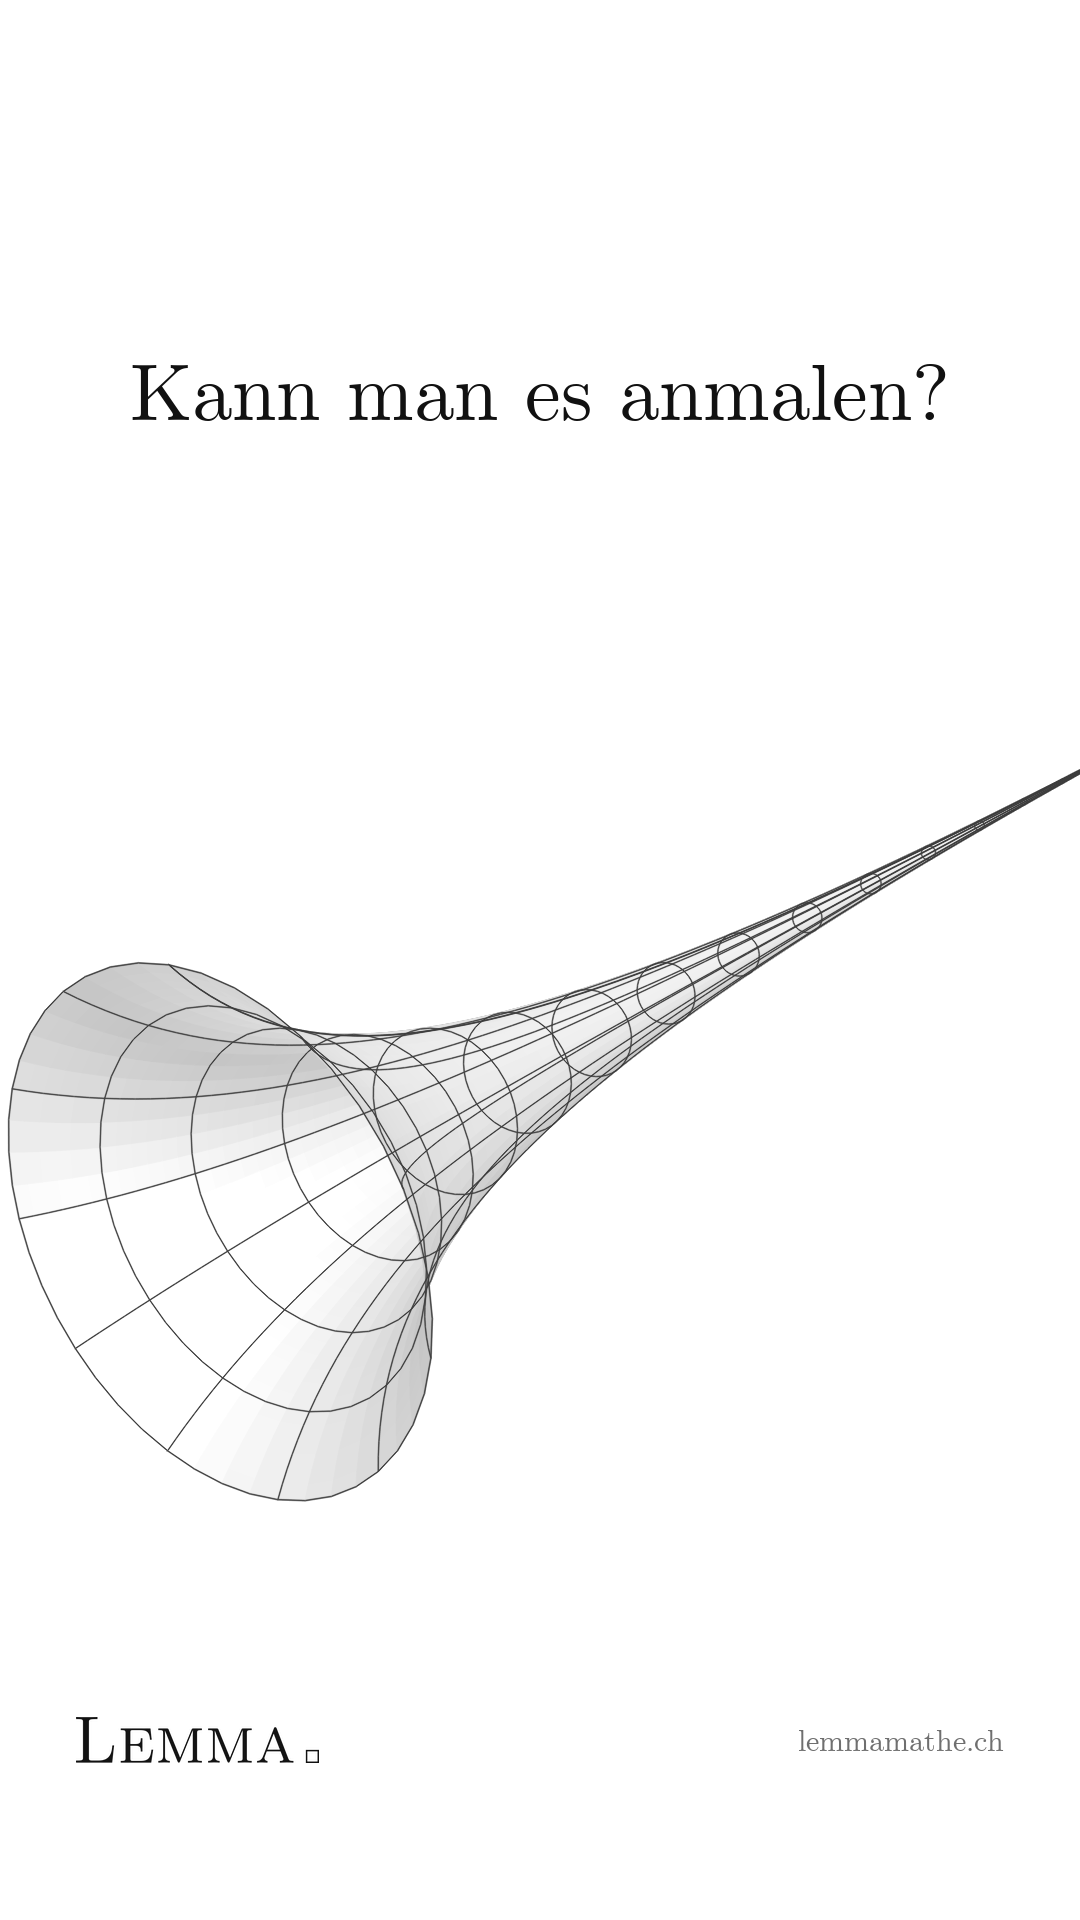
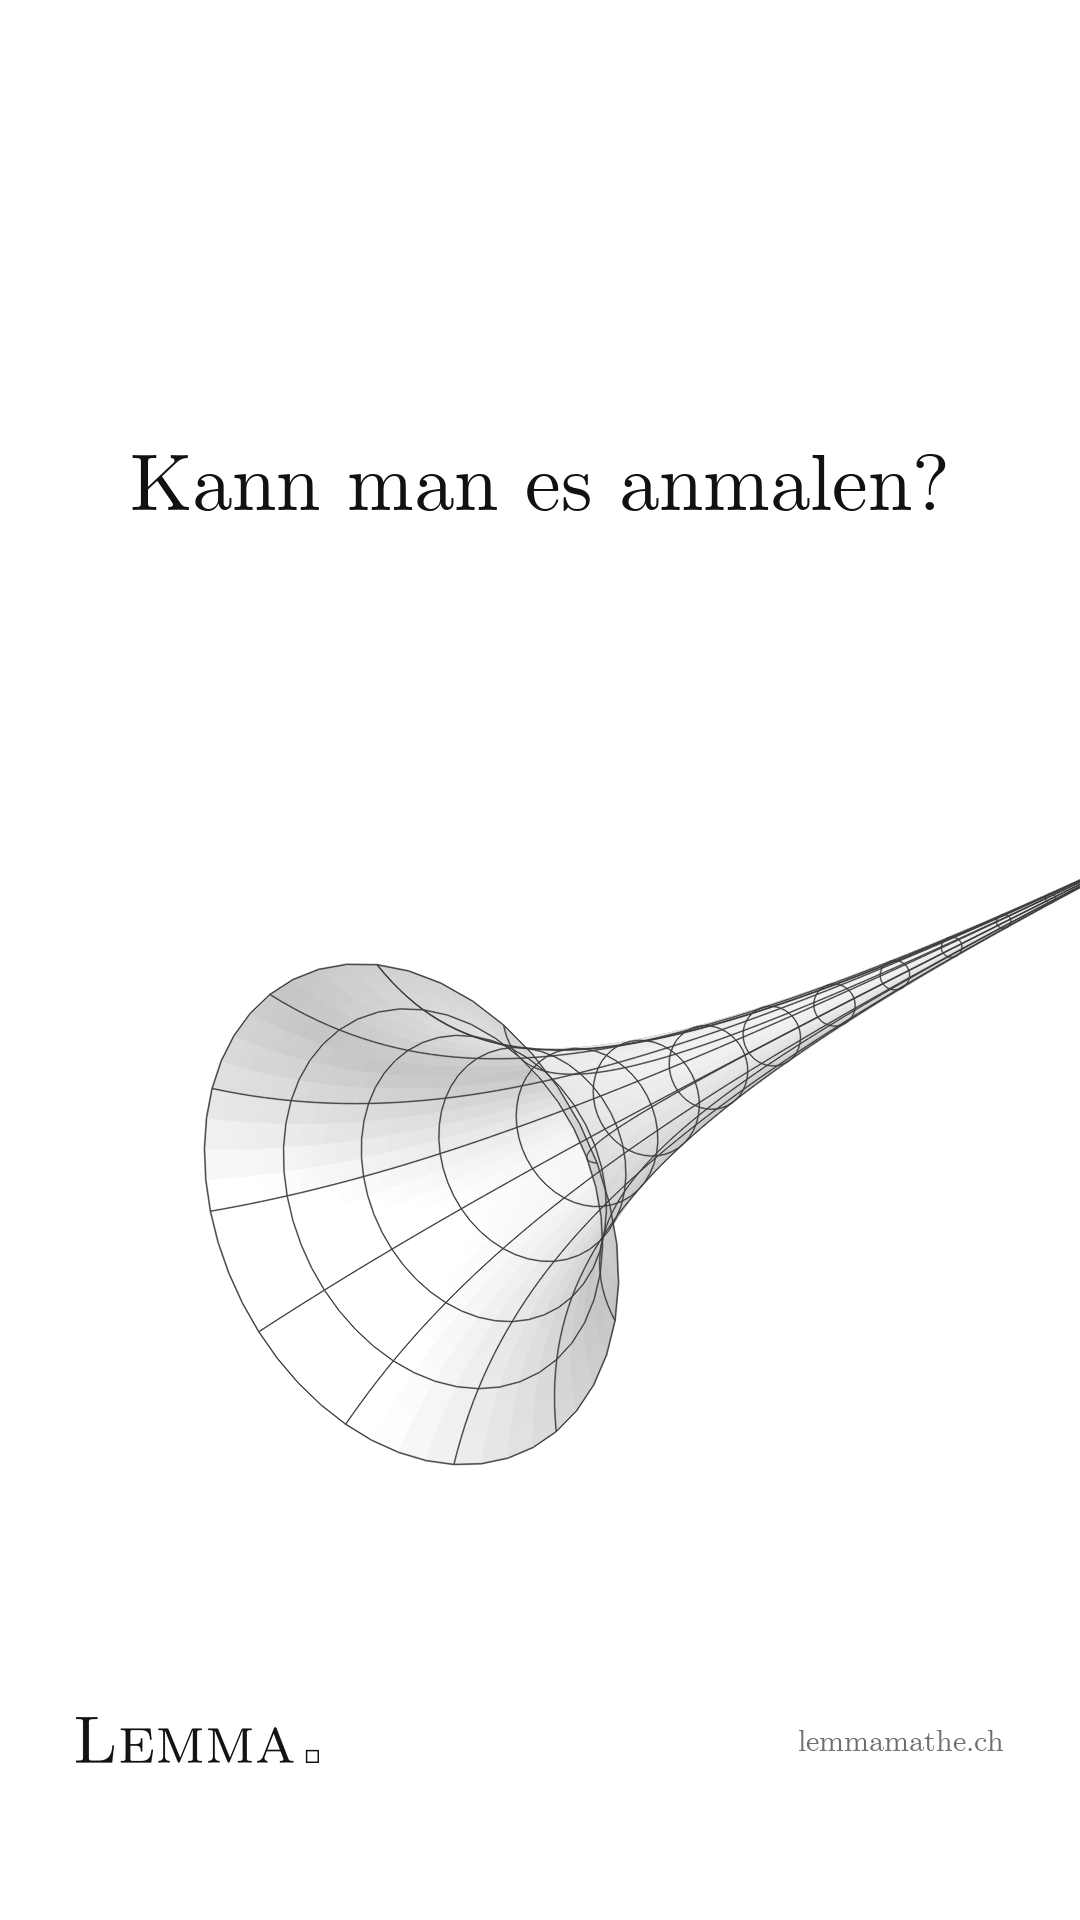
Entdecken: Reel Gabriels Horn
Eintrag auf der Entdecken-Seite, Vorschaubild für die Kachel und
Titelbild mit mittig gesetzter Gruppe aus Überschrift und Horn.

diff --git a/index.html b/index.html
@@ -996,6 +996,10 @@ const VIDEOS = [];
    - instagram:   optional, Link zum Post
    ===================================================================== */
 const ENTDECKEN = [
+  { ordner: "staunen-gabriels-horn", video: true, titel: "Gabriels Horn",
+    untertitel: "Füllen ja, anmalen nie",
+    text: "Dreht man die Kurve y = 1/x ab x = 1 um die x-Achse, entsteht ein unendlich langes Horn. Sein Volumen ist genau π – die Oberfläche aber wächst ohne Ende. Man könnte es mit Farbe füllen, aber nie anmalen.",
+    stichworte: ["Gabriels Horn", "Torricelli", "Rotationskörper", "Volumen", "Oberfläche", "Integral", "uneigentliches Integral", "unendlich", "3D", "Reel", "Video"] },
   { ordner: "staunen-fourier-kreise", video: true, titel: "Mit Kreisen alles zeichnen",
     untertitel: "300 drehende Kreise zeichnen das Lemma-Zeichen",
     text: "Ein Kreis dreht sich, auf ihm ein zweiter, darauf ein dritter … Mit genug Kreisen lässt sich jede geschlossene Kurve nachzeichnen. Das hat Joseph Fourier 1807 entdeckt: Jede Kurve ist eine Summe drehender Kreise.",
